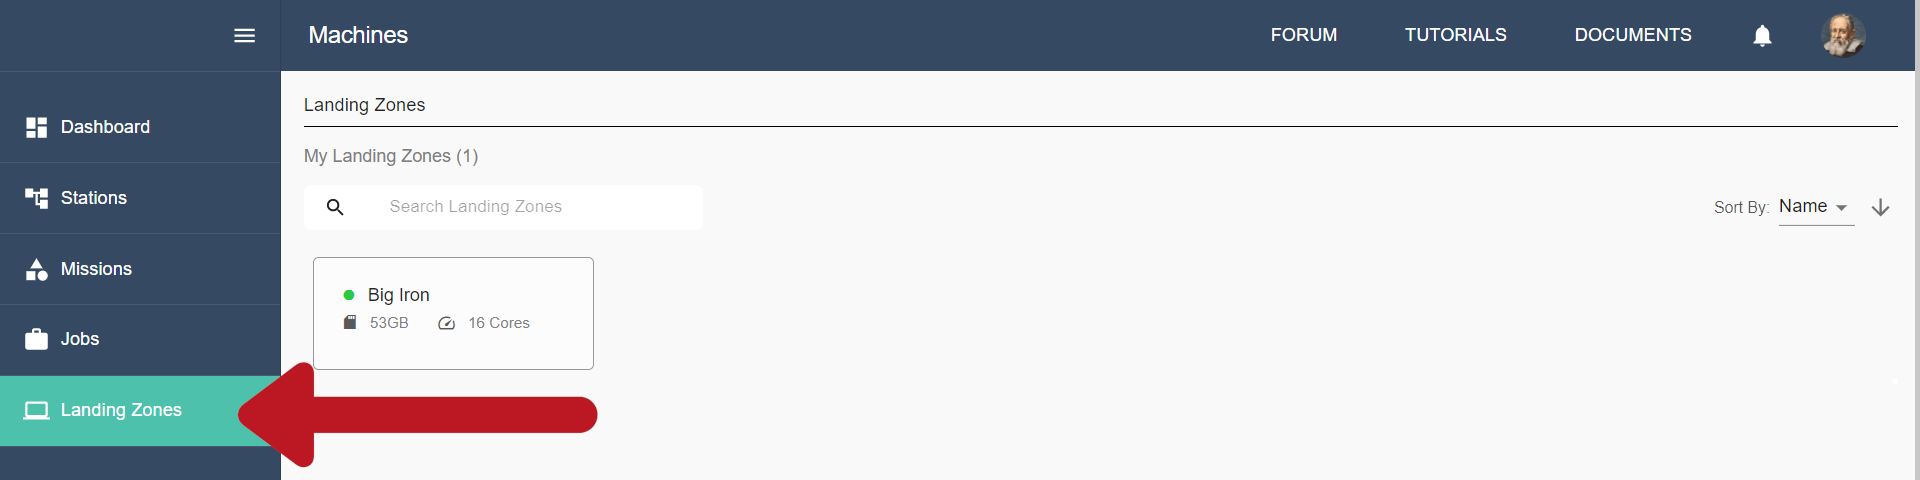
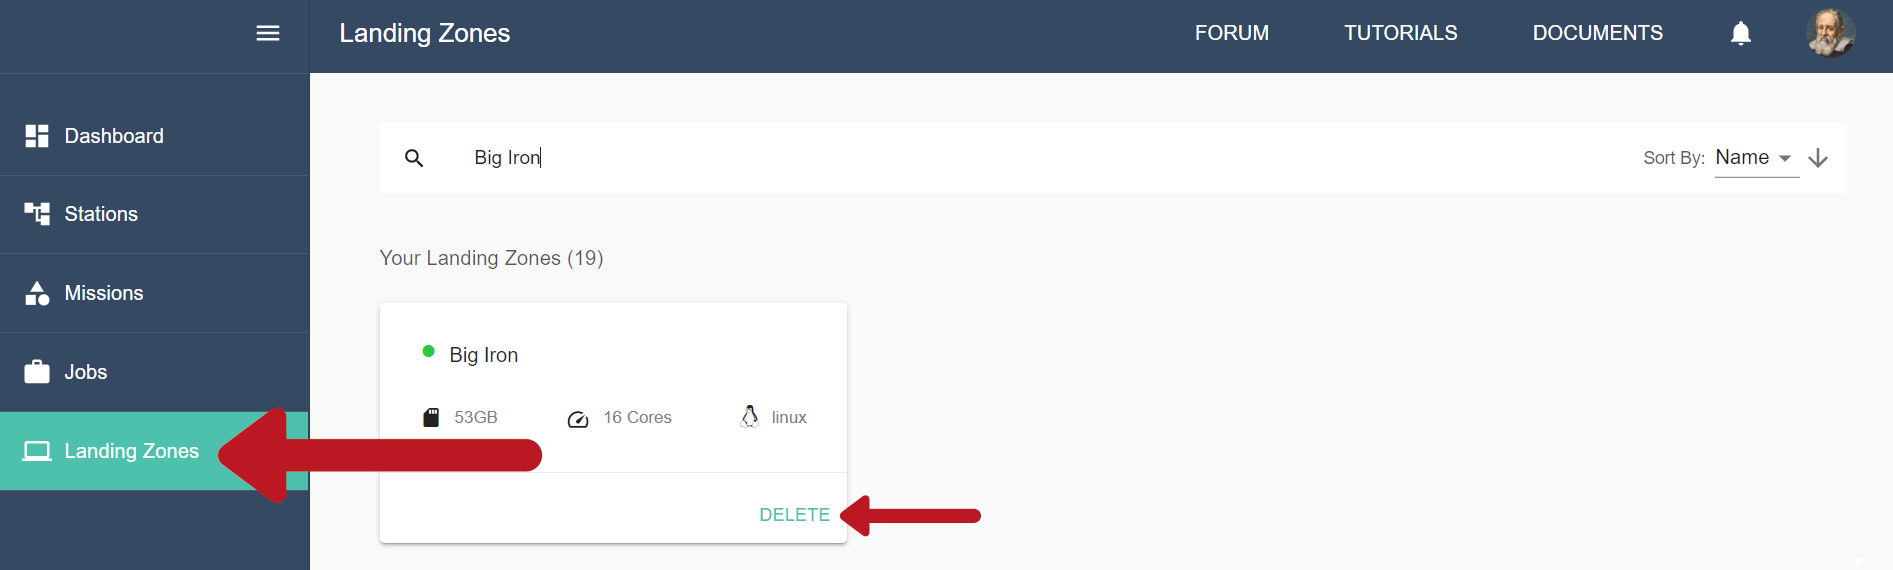
update

diff --git a/docs/src/landing_zones.rst b/docs/src/landing_zones.rst
@@ -51,7 +51,7 @@ How to Run the Landing Zone daemon
     URL: https://galileoapp.auth0.com/activate
     Code: XXXX-XXXX
 
-* Follow those instructions. Once you have confirmed your code at the provided URL you should see your new Landing Zone appear in the Galileo Landing Zones tab as show below! The dot next to the LZ name will be green when the LZ is online. If you stop the LZ container or turn your host machine off, this will disconnect the LZ session and the dot will turn red.  
+* Follow those instructions. Once you have confirmed your code at the provided URL you should see your new Landing Zone appear in the Galileo Landing Zones tab as show below! The dot next to the LZ name will be green when the LZ is online. If you stop the LZ container or turn your host machine off, this will disconnect the LZ session and the dot will turn red. If you don't want a particular LZ to appear in the UI anymore, click the delete button. 
 
 .. image:: images/landing_zone_tab.png
 
